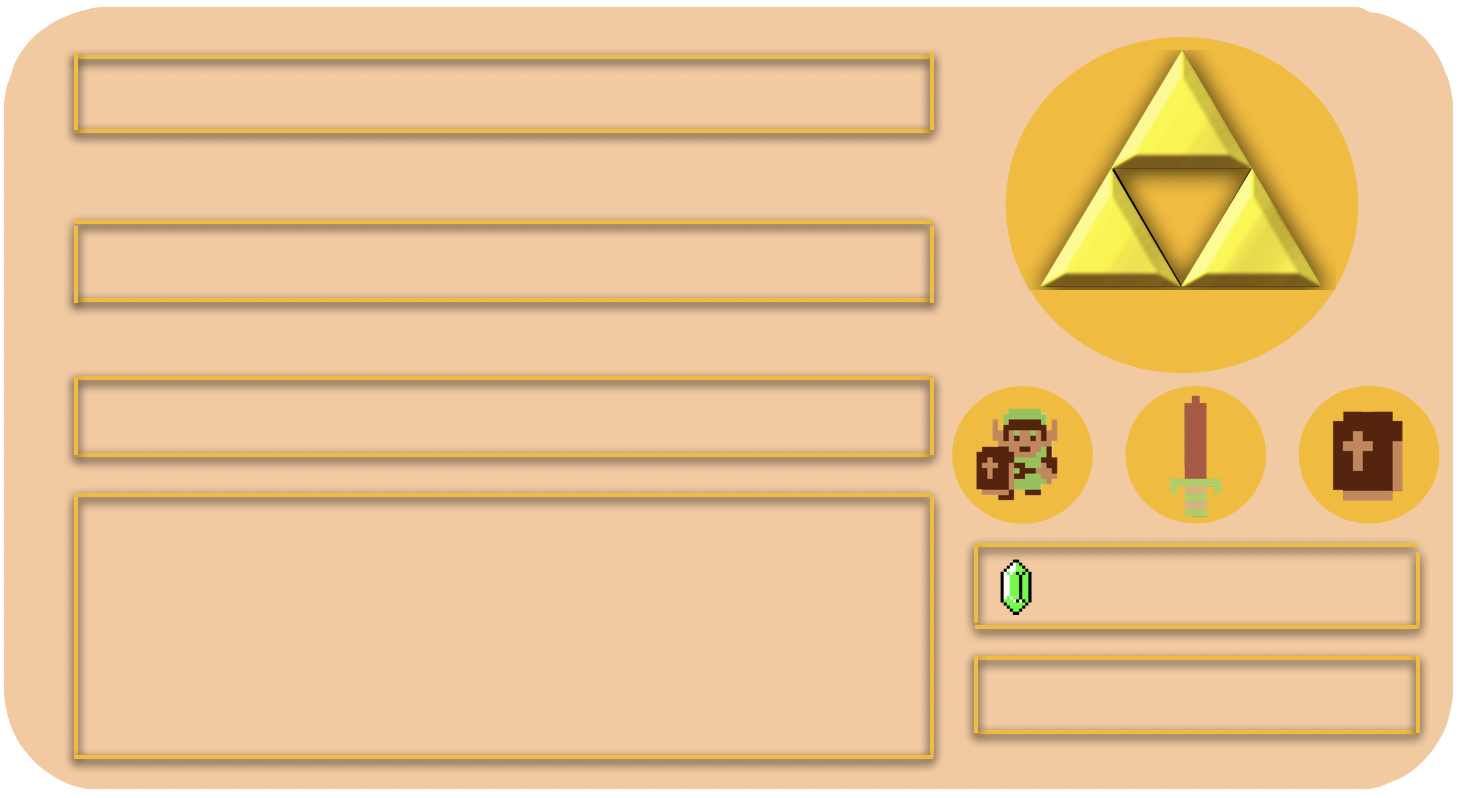
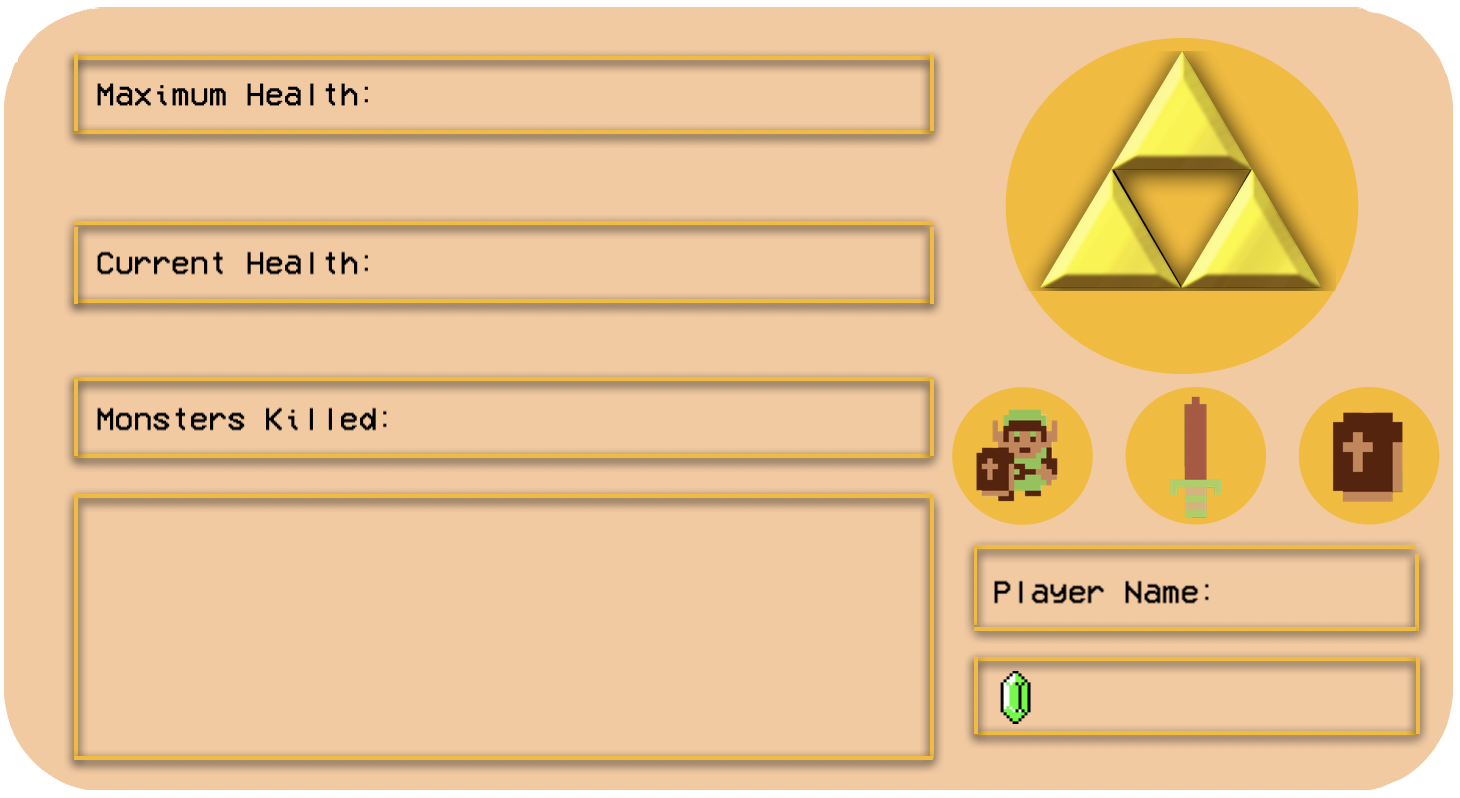
Wrote code to display json objects in player inventory
- Slightly modified the inventory in the assets
  folder

diff --git a/src/player.cc b/src/player.cc
@@ -2,15 +2,34 @@
 // Created by Aniruddha Pai on 4/18/20.
 //
 
+#include "zelda/player.h"
+
 #include <iostream>
 #include <fstream>
-#include <iomanip>
 
-#include "zelda/player.h"
 #include <nlohmann/json.hpp>
+
+#include <cinder/Font.h>
+#include <cinder/Text.h>
+#include <cinder/gl/draw.h>
+#include <cinder/gl/gl.h>
+#include <cinder/app/App.h>
 
 using namespace std;
 using nlohmann::json;
+#if defined(CINDER_COCOA_TOUCH)
+const char kNormalFont[] = "Arial";
+const char kBoldFont[] = "Arial-BoldMT";
+const char kDifferentFont[] = "VCR OSD Mono";
+#elif defined(CINDER_LINUX)
+const char kNormalFont[] = "Arial Unicode MS";
+const char kBoldFont[] = "Arial Unicode MS";
+const char kDifferentFont[] = "VCR OSD Mono";
+#else
+const char kNormalFont[] = "Arial";
+const char kBoldFont[] = "Arial Bold";
+const char kDifferentFont[] = "VCR OSD Mono";
+#endif
 
 namespace zelda {
 
@@ -22,9 +41,7 @@ void Player::SetLoc(Location set_loc) { loc_ = set_loc; }
 Location Player::GetLoc() const { return loc_; }
 
 void Player::SetCurrentHealth(int set_current_health) {
-  cout << "set_current_health" << set_current_health << endl;
   current_health_ = set_current_health;
-  cout << "current_health_" << current_health_ << endl;
 }
 
 int Player::GetCurrentHealth() { return current_health_; }
@@ -39,32 +56,61 @@ void Player::SetMonstersKilled(int monsters_killed) {
   monsters_killed_ = monsters_killed;
 }
 
-int count = 0;
 void Player::AddInfoToMenu() {
-  cout << "Count "<< count++ << " Current Health " << current_health_ << endl;
-
   json j;
 
   j = {
-      {"Name: ", "Link"},
-      {"Max Health: ", max_health_},
+      {"Player Name", "Link"},
+      {"Max Health", max_health_},
       {"Current Health", current_health_},
-      {"Monsters Killed: ", monsters_killed_}
+      {"Monsters Killed", monsters_killed_},
+      {"Money", total_money_}
   };
 
-  ofstream add_to_menu("menu.json");
-  add_to_menu << setw(4) << j << endl;
+  std::ofstream add_to_menu("menu.json");
+  add_to_menu << j << std::endl;
+}
+
+void PrintMenuText(const std::string& text, const int pos, const int xi,
+                   const int yi, const int xj, const int yj) {
+
+  cinder::gl::color(cinder::Color::black());
+
+  const cinder::vec2 loc = cinder::app::getWindowCenter();
+  const cinder::ivec2 size = {500, 50};
+
+  auto box = cinder::TextBox()
+      .alignment(cinder::TextBox::LEFT)
+      .font(cinder::Font(kDifferentFont, 30))
+      .size(size)
+      .backgroundColor(cinder::ColorA(0, 0, 0, 0))
+      .text(text);
+
+  const auto box_size = box.getSize();
+  const auto surface = box.render();
+  const auto texture = cinder::gl::Texture::create(surface);
+  cinder::gl::draw(texture, cinder::Rectf(((loc.x/pos) + xi),
+                                          ((loc.y/pos) + yi),
+                                          ((loc.x/pos) + xj),
+                                          ((loc.y/pos) + yj)));
 }
 
 void Player::ViewMenu() {
-  ifstream read_menu("menu.json");
+  std::ifstream read_menu("menu.json");
 
   json j;
   read_menu >> j;
 
-  for (json::iterator it = j.begin(); it != j.end(); ++it) {
-    cout << *it << endl;
-  }
+  PrintMenuText(std::to_string(j["Max Health"].get<int>()),
+                20, 345, 65, 1325, 130);
+  PrintMenuText(std::to_string(j["Current Health"].get<int>()),
+                20, 345, 255, 1325, 320);
+  PrintMenuText(std::to_string(j["Monsters Killed"].get<int>()),
+                20, 357, 432, 1337, 497);
+  PrintMenuText(std::to_string(j["Money"].get<int>()),
+                20, 1005, 743, 1985, 808);
+  PrintMenuText(j["Player Name"].get<std::string>(),
+                20, 1172, 623, 2162, 688);
 }
 
 } // namespace zelda

diff --git a/apps/zelda_app.cc b/apps/zelda_app.cc
@@ -44,8 +44,7 @@ char money = 'C';
 
 Zelda::Zelda()
     : player_engine_{kRowTiles, kColTiles},
-      monster_{},
-      is_game_paused_{false} {}
+      monster_{} {}
 
 void Zelda::setup() {
   cinder::gl::disableDepthWrite();
@@ -94,9 +93,7 @@ void Zelda::update() {
 
     if (monster_.IsMonsterAttackLink(location, map_num)) {
       int current_player_health = player_engine_.GetPlayer().GetCurrentHealth();
-      std::cout << " Current Health " << current_player_health << std::endl;
       current_player_health--;
-      std::cout << "New Current Health " << current_player_health << std::endl;
       player_engine_.SetCurrentPlayerHealth(current_player_health);
     }
     slow_monster_count = 0;
@@ -200,14 +197,12 @@ void Zelda::keyDown(KeyEvent event) {
       break;
     }
     case KeyEvent::KEY_p: {
-      is_game_paused_ = !is_game_paused_;
+      if (is_intro_finished_) {
+        is_game_paused_ = !is_game_paused_;
+      }
 
       if (is_game_paused_) {
         player_engine_.GetPlayer().AddInfoToMenu();
-        player_engine_.GetPlayer().ViewMenu();
-        last_pause_time_ = std::chrono::system_clock::now();
-      } else {
-        last_intact_time_ += std::chrono::system_clock::now() - last_pause_time_;
       }
       break;
     }
@@ -264,7 +259,7 @@ void Zelda::DisplayMenu() {
   if (mapper_.IsSwordTaken()) {
     inventory_path = cinder::fs::path("inventory-1.png");
   } else {
-    inventory_path = cinder::fs::path("inventory.png");
+    inventory_path = cinder::fs::path("inventory-2.png");
   }
 
   cinder::fs::path menu_path = cinder::fs::path(inventory_path);
@@ -273,6 +268,8 @@ void Zelda::DisplayMenu() {
 
 
   cinder::gl::draw(texture, getWindowBounds());
+
+  player_engine_.GetPlayer().ViewMenu();
 }
 
 void Zelda::DrawBackground() {

diff --git a/apps/zelda_app.h b/apps/zelda_app.h
@@ -82,10 +82,8 @@ class Zelda : public cinder::app::App {
   zelda::Map mapper_;
   zelda::Monster monster_;
 
-  // This is done to keep track of time, while the game is paused
-  std::chrono::time_point<std::chrono::system_clock> last_intact_time_;
-  std::chrono::time_point<std::chrono::system_clock> last_pause_time_;
-  bool is_game_paused_;
+  // This is done to check the game state, ie; playing or paused
+  bool is_game_paused_ = false;
 
   // The current map the player is on
   std::string curr_map_;
